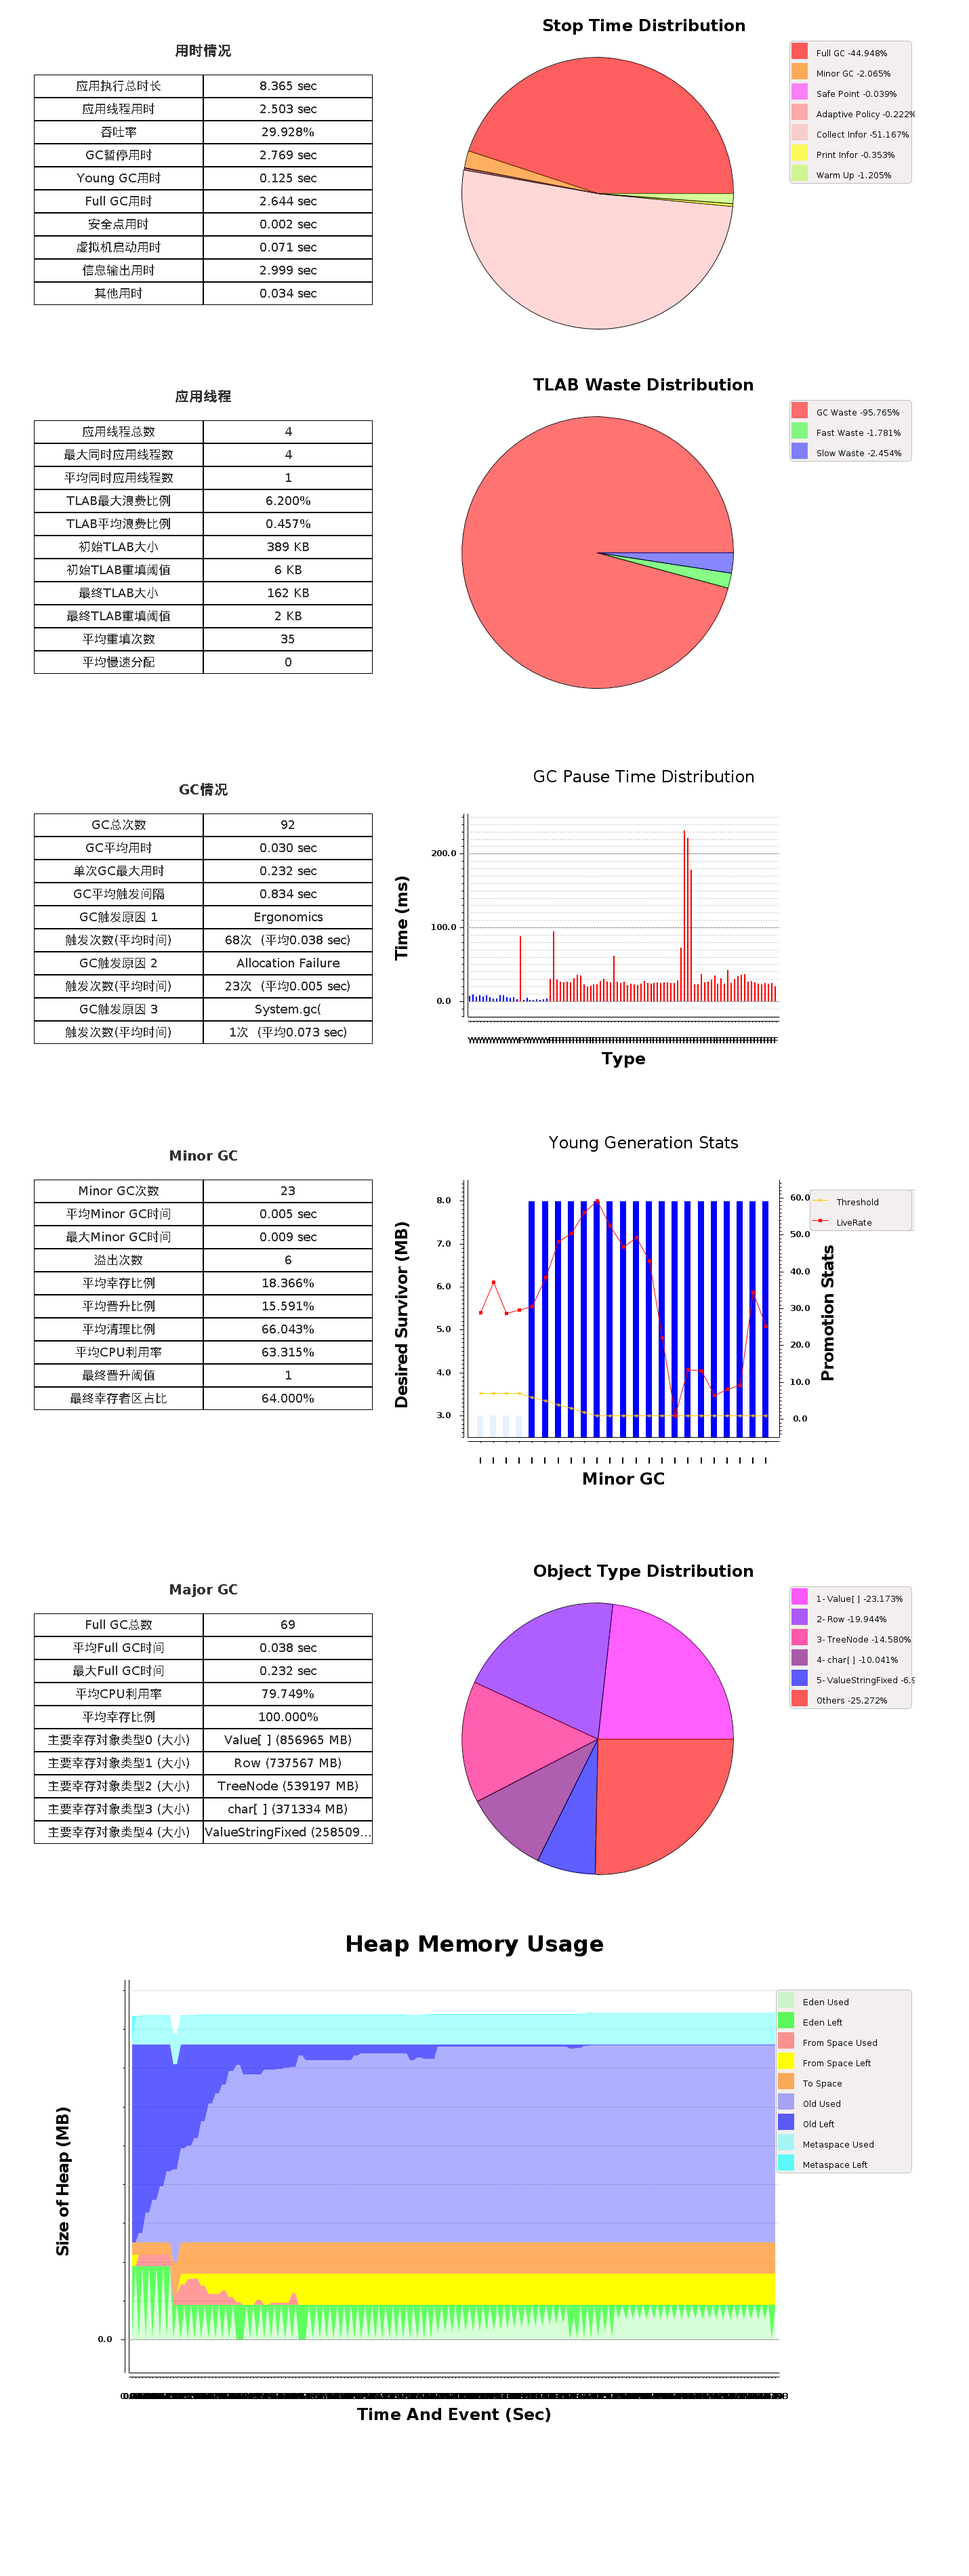
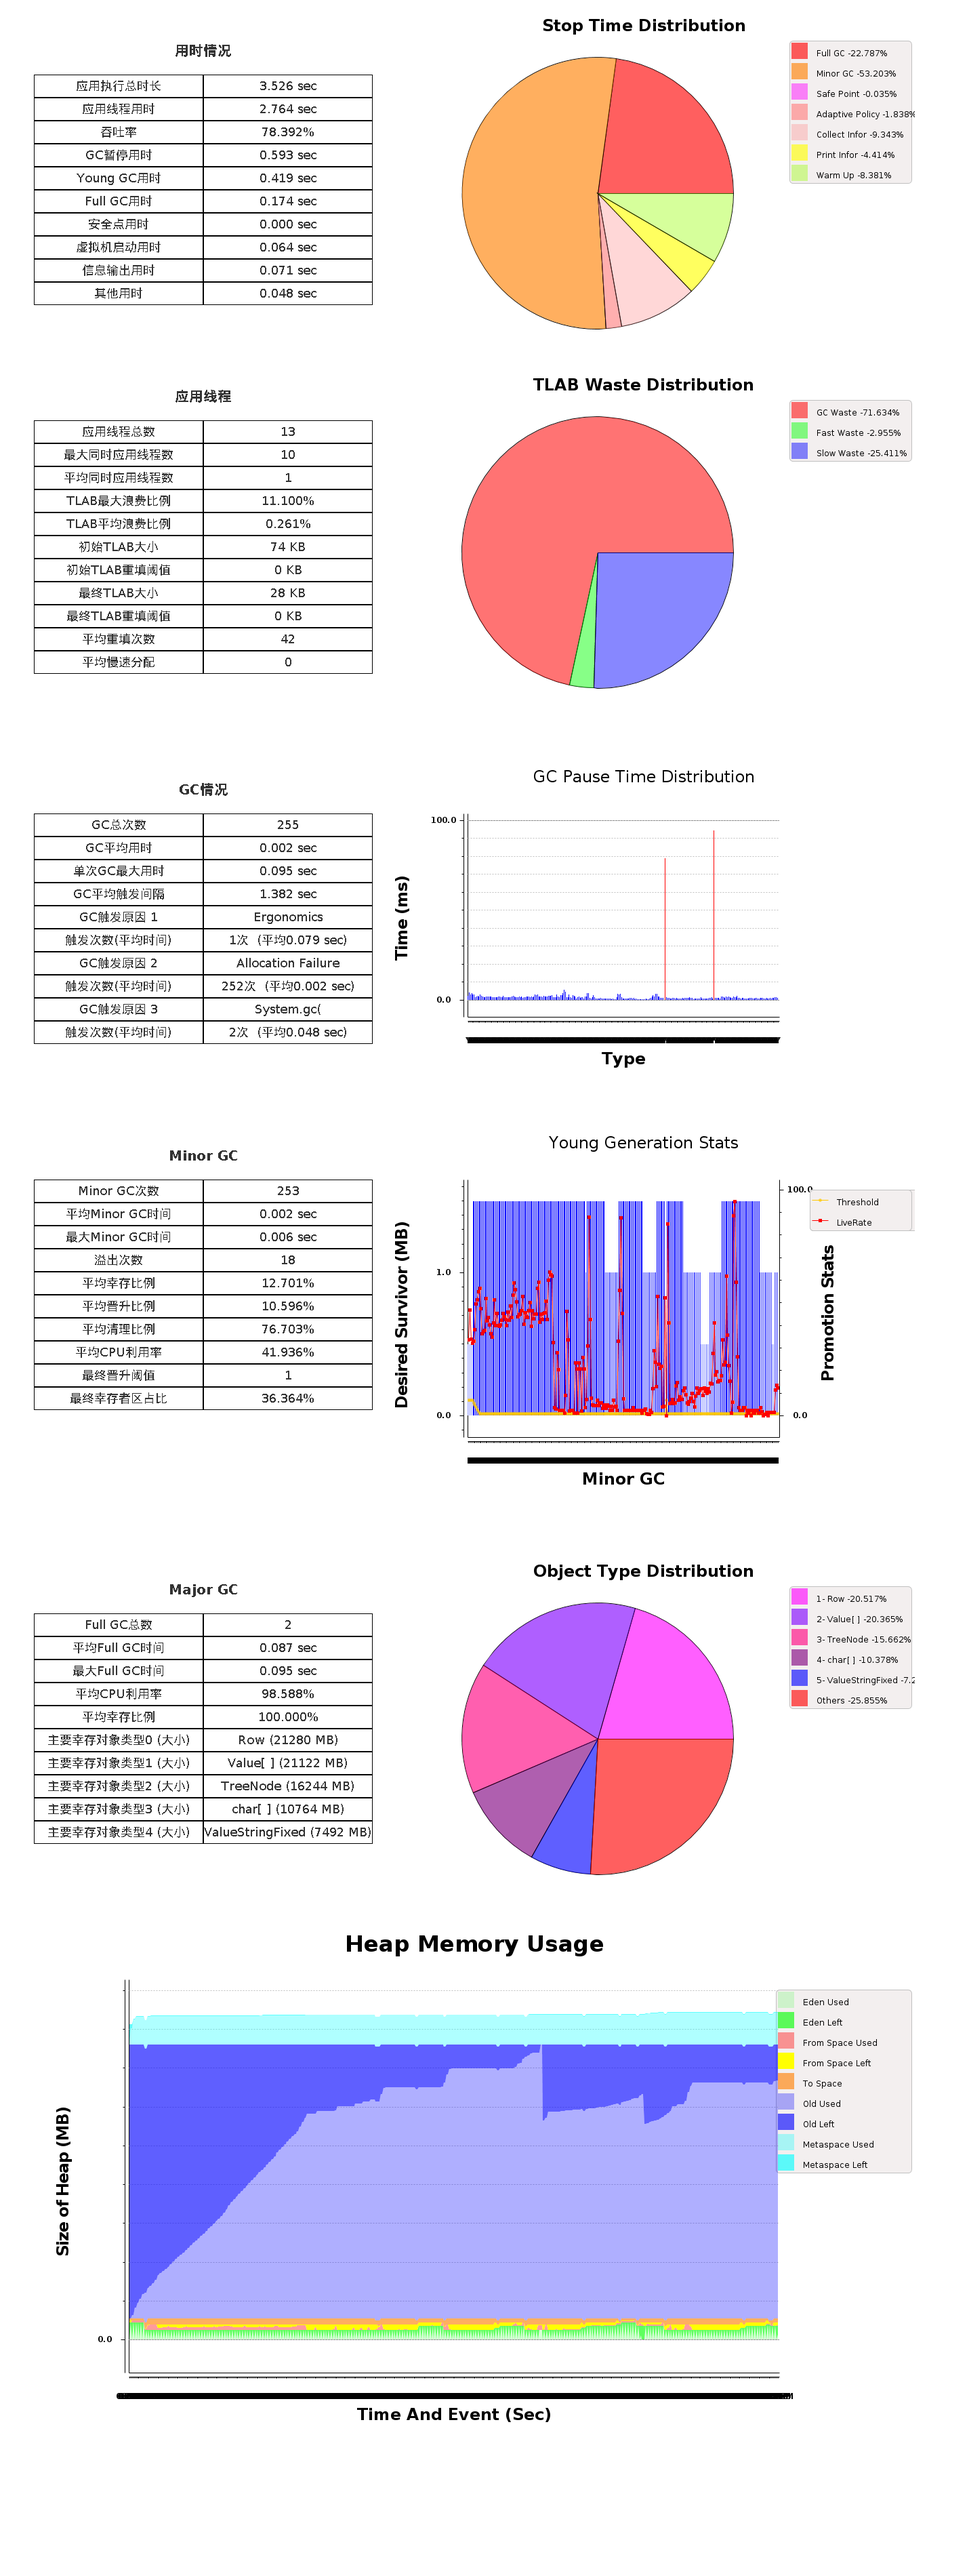
little change before testing again

diff --git a/tool.py b/tool.py
@@ -11,7 +11,7 @@ class Optimizer:
         self.default_args = '-XX:+PrintGCDetails -XX:+UnlockDiagnosticVMOptions \
                              -XX:+PrintClassHistogramAfterFullGC -XX:+PrintClassHistogramBeforeFullGC \
                              -XX:+PrintGCApplicationConcurrentTime -XX:+PrintGCApplicationStoppedTime \
-                             -XX:+PrintHeapAtGC -XX:+PrintHeapAtGCExtended \
+                             -XX:+PrintHeapAtGC -XX:+PrintHeapAtGCExtended -XX:+PrintGCTimeStamps \
                              -XX:+PrintOldPLAB -XX:+PrintPLAB -XX:+PrintTLAB \
                              -XX:+PrintParallelOldGCPhaseTimes -XX:+PrintReferenceGC \
                              -XX:+PrintTenuringDistribution -XX:+PrintPromotionFailure \
@@ -124,9 +124,9 @@ class Optimizer:
         arguments = [
             ('SurvivorRatio', (4, 16, 4)), # default: 8
             ('TargetSurvivorRatio', (25, 100, 25)), # default: 50
-            # ('OldPLABSize', (1024, 5120, 1024)), # default: 1024
-            # ('YoungPLABSize', (1024, 5120, 1024)), # default: 4096
-            # ('PLABWeight', (70, 85, 5)), # default: 75
+            ('OldPLABSize', (1024, 5120, 1024)), # default: 1024
+            ('YoungPLABSize', (1024, 5120, 1024)), # default: 4096
+            ('PLABWeight', (70, 85, 5)), # default: 75
         ]
         index = [0]*len(arguments)
         for i in range(0, len(index)):

diff --git a/src/Showing.java b/src/Showing.java
@@ -99,7 +99,7 @@ public class Showing {
     static double Apptime = 0;
 
     public static void shows(String title) throws IOException {
-        BufferedWriter out = new BufferedWriter(new FileWriter("Info.txt"));
+        BufferedWriter out = new BufferedWriter(new FileWriter(title + "_Info.txt"));
 
         SettleInformation();
 
@@ -186,7 +186,7 @@ public class Showing {
         Graphics2D g2 = image.createGraphics();
         //c.paint(image.getGraphics());
         MainPanel.print(g2);
-        ImageIO.write(image, "png", new java.io.File("jpanel.jpg"));
+        ImageIO.write(image, "png", new java.io.File(title + "InfoPic.jpg"));
     }
 
     private static void SettleInformation() {
